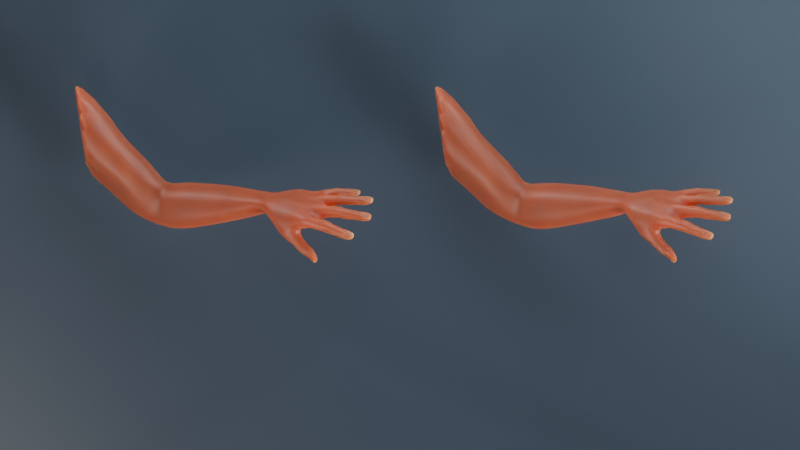
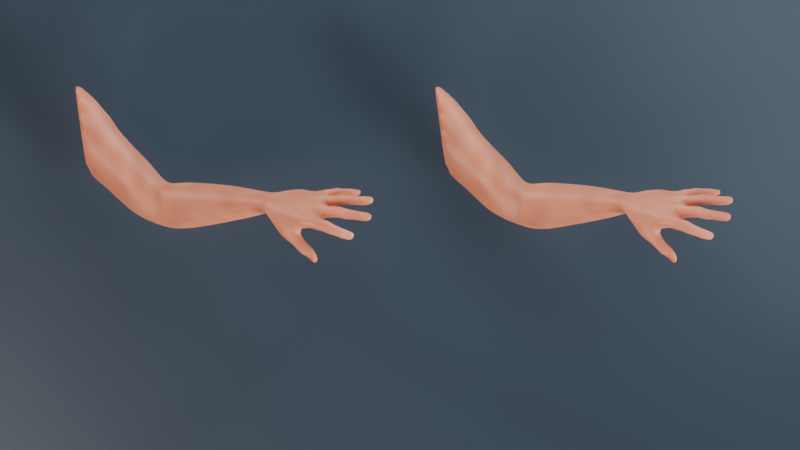
fix: refresh packed skin textures and publish SSS comparison

Changed region(s): [[0.5312, 0.1867, 0.9375, 0.5911], [0.0938, 0.1867, 0.4688, 0.5911]]

diff --git a/examples/showcase/blender_skin.py b/examples/showcase/blender_skin.py
@@ -29,7 +29,8 @@ def setup(output_dir, texture_dir):
 
     def image(name, raw=False):
         node = nodes.new("ShaderNodeTexImage")
-        node.image = bpy.data.images.load(str(texture_dir / (name + ".png")), check_existing=True)
+        # Existing packed images can retain bytes from an earlier material export.
+        node.image = bpy.data.images.load(str(texture_dir / (name + ".png")), check_existing=False)
         node.image.colorspace_settings.name = "Non-Color" if raw else "sRGB"
         node.projection, node.projection_blend = "BOX", 0.3
         links.new(scale.outputs["Vector"], node.inputs["Vector"])

diff --git a/docs/showcase/arm-skin/README.md b/docs/showcase/arm-skin/README.md
@@ -1,6 +1,6 @@
 # Arm skinning: Designer materials and native DCC previews
 
-![Cycles source and reconstructed arm, first material iteration](render.png)
+![Cycles source and reconstructed arm, lighter Designer skin](render.png)
 
 The left arm uses our authored weights; the right arm uses Dem Bones weights
 and solved joint animation. This is a native Blender Cycles render. The free
@@ -8,16 +8,17 @@ and solved joint animation. This is a native Blender Cycles render. The free
 and 2,068 polygons. We author nine influences and 48 poses, then validate the
 reconstructed animation in Maya, Blender, Houdini and Unreal Engine 5.8.
 
-**Look development is in progress.** Blender and Maya sequences below use the
-first Designer color palette and SSS scale `0.09`. The saved material has a
-lighter palette; the next render uses scale `0.03`. That iteration, the SSS
-on/off comparison, the complete Houdini Mantra arm sequence and the Unreal
-SSS sequence await native acceptance. See [validation](validation.json) and
+**Look development is in progress.** Blender's complete sequence uses the
+lighter Designer palette and SSS scale `0.03`. Its packed scene was reopened
+through DCC-MCP; the bound textures and HDRI match the published asset hashes.
+Maya retains the first palette and scale `0.09`. The updated Maya material,
+complete Houdini Mantra arm sequence and Unreal SSS sequence await native
+acceptance. See [validation](validation.json) and
 [file hashes](manifest.json) for the exact completed evidence.
 
 ## Native animation gallery
 
-| Blender 5.2 — Cycles, HDRI + SSS first pass | Maya 2026 — Arnold, HDRI + SSS first pass |
+| Blender 5.2 — Cycles, HDRI + SSS | Maya 2026 — Arnold, HDRI + SSS first pass |
 | --- | --- |
 | ![Source left, reconstructed right](blender-arm.gif) | ![Reconstructed arm in Arnold](maya-arm.gif) |
 
@@ -30,6 +31,18 @@ All GIFs contain 48 native frames at 800 × 450, approximately four seconds at
 synthetic in-between frames or geometry correction is applied. Houdini's
 OpenGL clip and Unreal's lit clip are deformation previews. They do not
 demonstrate the final HDRI skin material.
+
+### Native SSS comparison
+
+| SSS off | SSS on, weight 0.65 and scale 0.03 |
+| --- | --- |
+| ![Native Cycles hand without subsurface scattering](sss-off.png) | ![Native Cycles hand with subsurface scattering](sss-on.png) |
+
+Both native Cycles renders use frame 12, the same camera, HDRI, backlight,
+skin maps and 128 samples. Only the subsurface weight changes. This is an
+artistic comparison, not a measurement of real skin scattering coefficients.
+The [packed texture readback](blender-packed-readback.json) records the
+native reopened material's bound bytes, relative paths and SSS settings.
 
 ### Rigid metal chain
 
@@ -155,8 +168,8 @@ the Blender and Maya previews.
 | Mantra | Base Color | rest-space planar UVs ×3; Principled SSS weight 0.65; roughness scalar 0.55 |
 | Unreal | Base Color, Roughness | native planar UV projection; legacy Subsurface model, opacity 0.45 |
 
-The completed Cycles and Arnold clips use scatter scale `0.09`; the next
-scripted iteration uses `0.03`. These are artistic scene settings, not
+The completed Cycles clip uses scatter scale `0.03`; Arnold retains `0.09`.
+These are artistic scene settings, not
 measured skin coefficients. Cycles uses denoising and 64 animation samples;
 Arnold uses AA 3 and diffuse samples 2 with color-managed PNG output. The
 single Mantra preview uses 6 × 6 pixel samples. Its linear EXR is displayed
@@ -166,14 +179,16 @@ color transform. Unreal's HDRI/SSS capture exposure is still under review.
 ![Completed single-frame Mantra SSS first pass](houdini-mantra-first-pass.png)
 
 The Mantra image is a completed single frame. The interrupted animation is
-excluded. Packed relative native scene delivery, UV/tangent review, improved
-SSS quality and an identical-lighting SSS off/on pair remain acceptance tasks.
+excluded. Blender's relative packed textures have passed native scene reopen
+and byte readback. Public native scene delivery, UV/tangent review and the
+remaining renderer sequences still require acceptance.
 
 ## Reproduce and resume
 
 Follow the [DCC-MCP example guide](https://github.com/loonghao/py-dem-bones/tree/main/examples/showcase).
 Use a disposable scene/project, a wheel matching the host's Python ABI, and
 an exactly selected live DCC-MCP instance. Application UI uses the project
-DCC-CUA route. The last continuation was blocked by
-`interactive_desktop_unavailable` from DCC-CUA 1.9.1; restore the interactive
-desktop before resuming native rendering or UI capture.
+DCC-CUA route only when the official application API cannot express the
+operation. When an official API exists but DCC-MCP lacks a tool, implement
+and validate the typed adapter capability first. Maya and Houdini startup
+integration is currently being repaired before further native rendering.

diff --git a/docs/showcase.rst b/docs/showcase.rst
@@ -7,10 +7,11 @@ through DCC-MCP in Maya, Blender, Houdini and Unreal Engine 5.8.
 .. image:: showcase/arm-skin/render.png
    :alt: Native Cycles source arm on the left and reconstructed arm on the right
 
-The image is the first Designer skin material iteration. Its native Cycles
-and Arnold sequences use a real CC0 HDRI and SSS. The lighter material palette,
-SSS off/on comparison, complete Mantra arm sequence and Unreal SSS sequence
-still require live acceptance.
+The image uses the lighter Designer skin material in native Cycles with a
+real CC0 HDRI and SSS. Blender's full sequence, SSS off/on comparison and
+packed texture readback have passed native acceptance. Arnold retains its
+first material iteration; updated Maya, complete Mantra and Unreal SSS
+sequences still require live acceptance.
 
 See the :doc:`rendered gallery and validation ledger <showcase/arm-skin/README>`
 for exact host results and remaining work, and the `DCC-MCP example guide

diff --git a/README.md b/README.md
@@ -39,8 +39,9 @@ The [architecture decision](docs/adr/0002-host-adapters-and-native-kernel.md) de
 
 Our own skin weights on a free CC0 arm with nine bones, 48 native poses and
 approximately **0.067% normalized RMSE** in Maya, Blender, Houdini and UE5.8.
-Designer-authored skin maps and a real Poly Haven HDRI drive the first Cycles
-and Arnold SSS previews. [Gallery, rigid chain and exact acceptance status](docs/showcase/arm-skin/README.md)
+Designer-authored skin maps and a real Poly Haven HDRI drive the Cycles
+SSS sequence and Arnold first pass. Native SSS off/on renders are included.
+[Gallery, rigid chain and exact acceptance status](docs/showcase/arm-skin/README.md)
 includes native GIFs from all four hosts. Final SSS look development remains
 in progress; Houdini and Unreal clips show their completed deformation previews.
 [Reproduce through DCC-MCP](examples/showcase/README.md).

diff --git a/README_zh.md b/README_zh.md
@@ -39,7 +39,7 @@ print(result.transforms.shape)  # (2, 实际骨骼数, 4, 4)
 
 在免费 CC0 手臂上使用九根骨骼、自己生成蒙皮，采样 48 帧，在 Maya、Blender、
 Houdini 和 UE5.8 中验证；归一化 RMSE 约 **0.067%**。Designer 制作皮肤贴图，
-真实 Poly Haven HDRI 用于 Cycles／Arnold 的 SSS 首版渲染。
+真实 Poly Haven HDRI 用于 Cycles 的 SSS 动画和 Arnold 首版渲染，包含原生 SSS 开关对照。
 [案例、铁链和验收记录](docs/showcase/arm-skin/README.md)包含四个宿主的原生 GIF。
 最终 SSS 展示仍在完善；Houdini／Unreal 当前展示已完成的变形预览。
 复现步骤见 [DCC-MCP 示例](examples/showcase/README.md)。

diff --git a/examples/showcase/README.md b/examples/showcase/README.md
@@ -47,8 +47,10 @@ scene when a prior case name exists.
 ## Skin and lighting configuration
 
 The following setup uses the newly exported lighter material palette and
-SSS scale `0.03`. Its final native render acceptance is pending; the published
-GIFs are the earlier `0.09` iteration, retained with its Base Color map.
+SSS scale `0.03`. Blender's complete native sequence and identical-lighting
+SSS off/on comparison have passed acceptance, including a packed scene reopen
+and bound texture byte readback. Maya retains the earlier `0.09` iteration
+with its Base Color map; its updated material acceptance is pending.
 
 ```python
 from pathlib import Path
